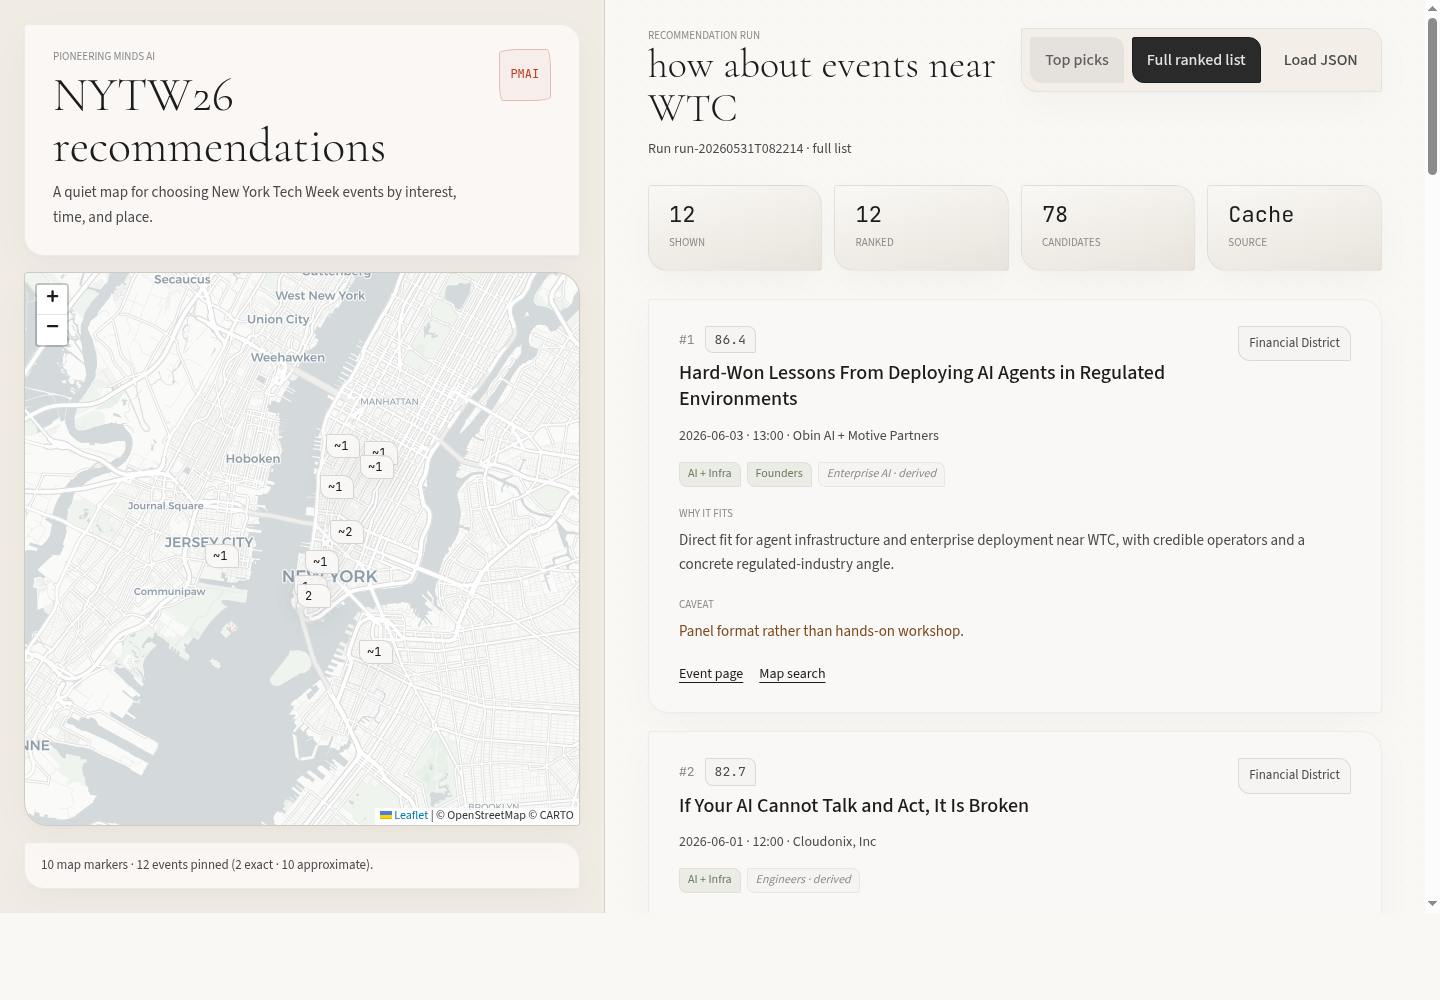
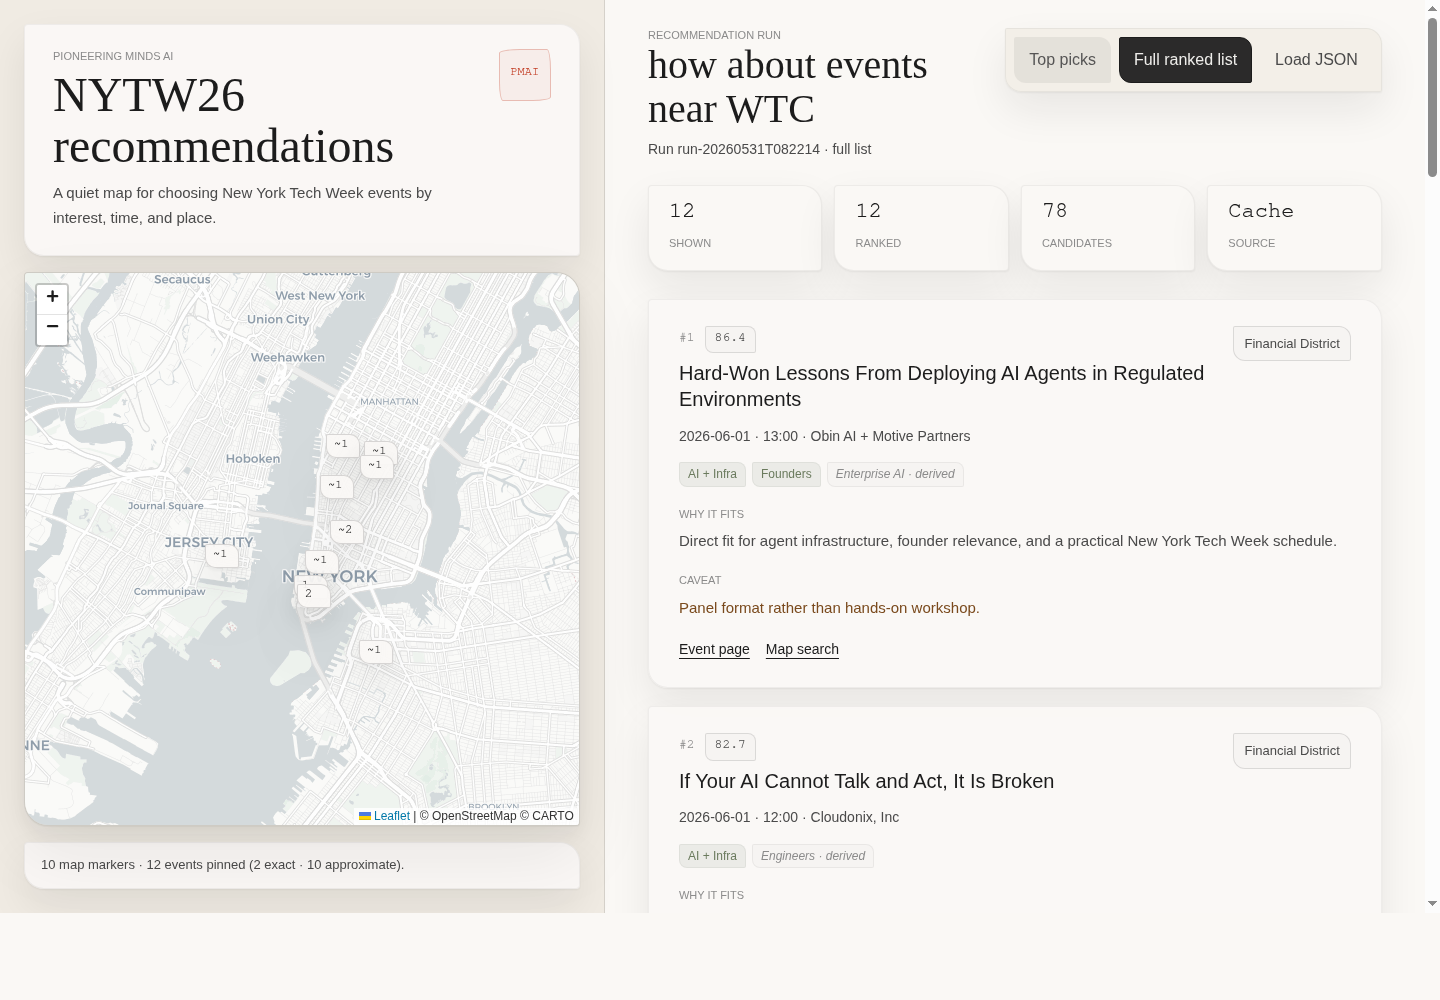
Remove gradients from recommendation UI

diff --git a/recommendation.html b/recommendation.html
@@ -25,7 +25,6 @@
       --bg: var(--washi-white);
       --bg-raised: var(--aged-paper);
       --surface-card: var(--washi-white);
-      --surface-stone-gradient: linear-gradient(165deg, #FAF8F5 0%, #E8E4DC 100%);
       --fg: var(--sumi-black);
       --fg-muted: var(--brushed-gray);
       --fg-subtle: var(--diluted-ink);
@@ -36,8 +35,9 @@
       --font-primary: 'Cormorant Garamond', 'Hiragino Mincho Pro', 'Yu Mincho', 'Times New Roman', serif;
       --font-body: 'Source Sans 3', -apple-system, BlinkMacSystemFont, 'Helvetica Neue', sans-serif;
       --font-mono: 'JetBrains Mono', 'SF Mono', Menlo, monospace;
-      --shadow-rest: 0 2px 4px rgba(28, 28, 28, 0.02), 0 12px 40px rgba(28, 28, 28, 0.03);
-      --shadow-float: 0 8px 32px rgba(28, 28, 28, 0.06);
+      --shadow-rest: 0 1px 1px rgba(28, 28, 28, 0.04), 0 8px 18px rgba(28, 28, 28, 0.06), 0 28px 70px rgba(28, 28, 28, 0.08);
+      --shadow-panel: 0 1px 2px rgba(28, 28, 28, 0.05), 0 18px 42px rgba(28, 28, 28, 0.08);
+      --shadow-float: 0 2px 4px rgba(28, 28, 28, 0.06), 0 14px 34px rgba(28, 28, 28, 0.10), 0 36px 90px rgba(28, 28, 28, 0.12);
       --ease-gentle: cubic-bezier(0.23, 1, 0.32, 1);
     }
 
@@ -55,17 +55,6 @@
       font-weight: 400;
       -webkit-font-smoothing: antialiased;
       overflow-x: hidden;
-    }
-
-    body::before {
-      content: "";
-      position: fixed;
-      inset: 0;
-      pointer-events: none;
-      opacity: 0.018;
-      background-image: radial-gradient(circle at 1px 1px, var(--sumi-black) 1px, transparent 0);
-      background-size: 20px 20px;
-      z-index: 0;
     }
 
     a { color: var(--sumi-black); text-decoration-thickness: 1px; text-underline-offset: 4px; }
@@ -105,7 +94,7 @@
       background: rgba(250, 248, 245, 0.94);
       border: 1px solid var(--border-hair);
       border-radius: 4px 20px 4px 20px;
-      box-shadow: var(--shadow-rest);
+      box-shadow: var(--shadow-panel);
     }
 
     .brand-card {
@@ -279,7 +268,7 @@
 
     .stat {
       padding: 18px 20px;
-      background: var(--surface-stone-gradient);
+      background: var(--surface-card);
     }
 
     .stat .value {